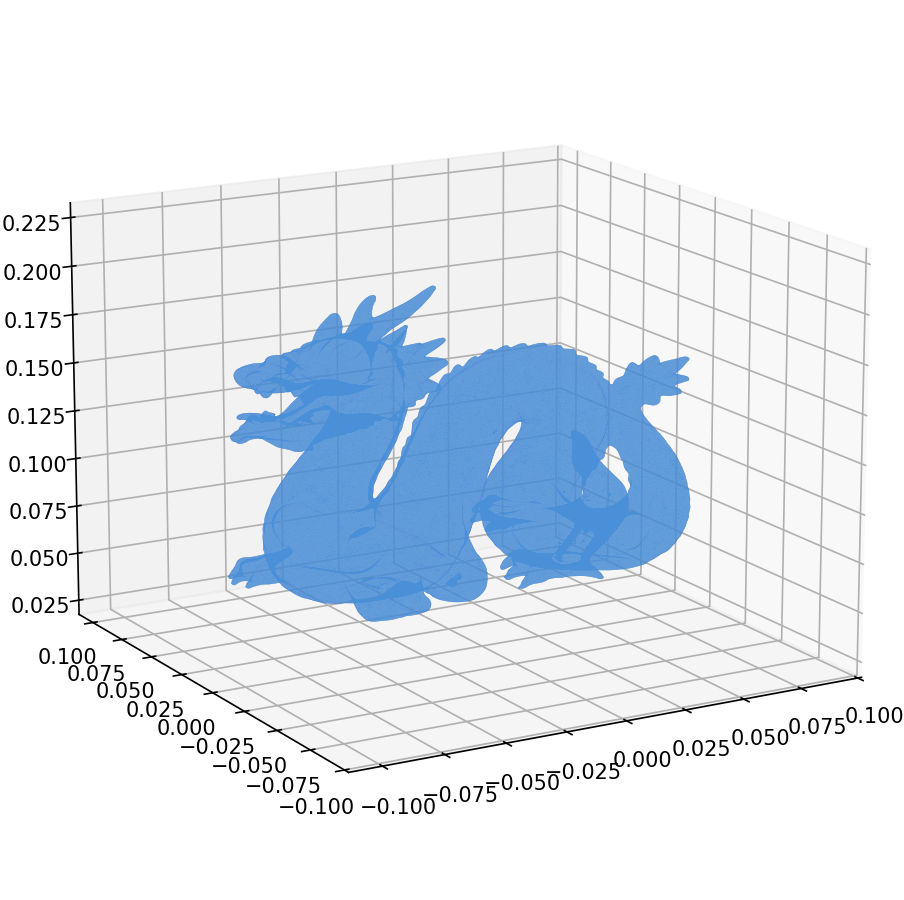
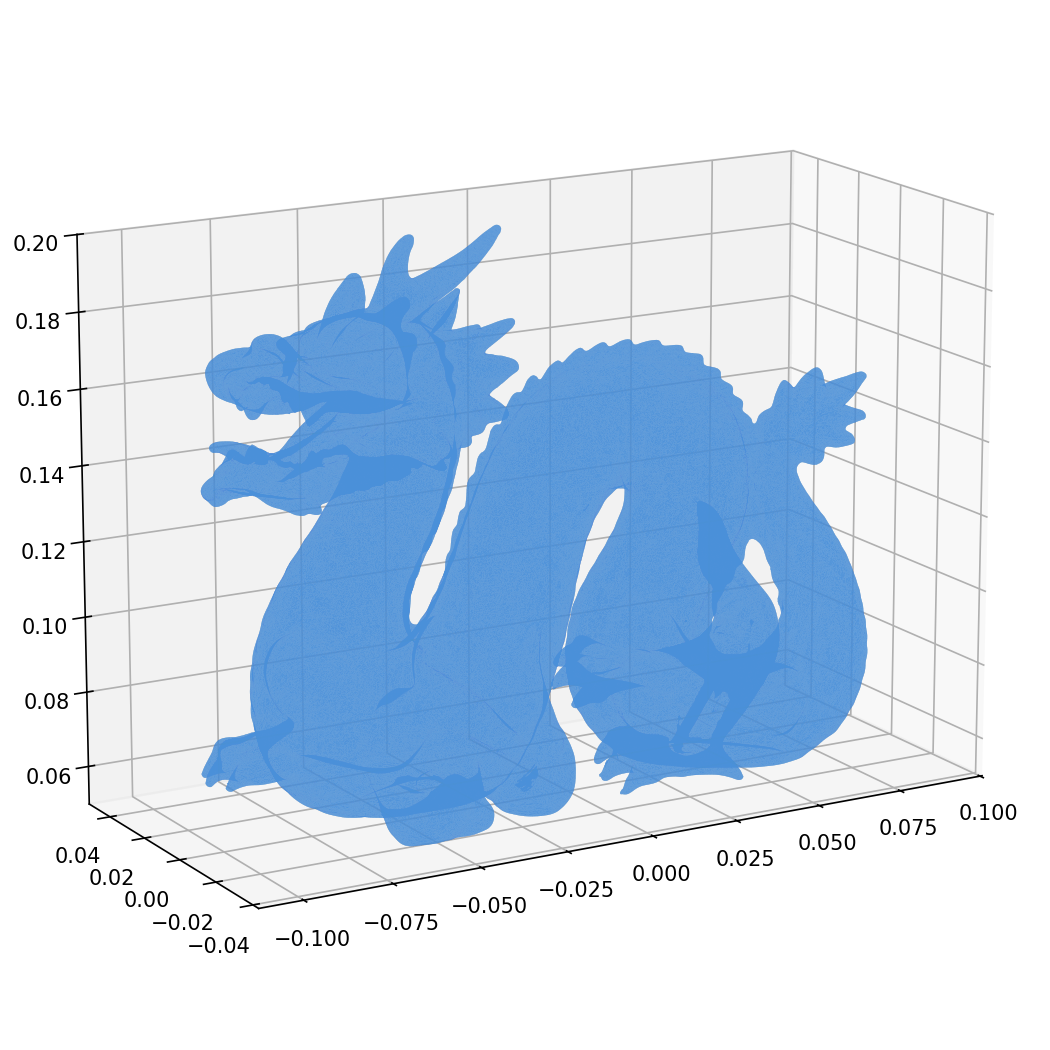
docs: crop whitespace from Dragon render, fill frame

diff --git a/benchmarks/benchmark_ascii_read.py b/benchmarks/benchmark_ascii_read.py
@@ -109,10 +109,11 @@ def render_dragon(output_path: pathlib.Path) -> None:
         import matplotlib as mpl
 
         mpl.use('Agg')
+        from PIL import Image, ImageChops
         from matplotlib import pyplot as plt
         from mpl_toolkits import mplot3d  # noqa: F401
     except ImportError:
-        print('matplotlib not installed, skipping render')
+        print('matplotlib/Pillow not installed, skipping render')
         return
 
     ply_path = download_dragon()
@@ -122,7 +123,7 @@ def render_dragon(output_path: pathlib.Path) -> None:
     # matplotlib uses Z-up)
     dragon.rotate([1, 0, 0], math.radians(-90))
 
-    figure = plt.figure(figsize=(8, 6))
+    figure = plt.figure(figsize=(10, 7))
     axes = figure.add_subplot(projection='3d')
     axes.add_collection3d(
         mplot3d.art3d.Poly3DCollection(
@@ -133,28 +134,58 @@ def render_dragon(output_path: pathlib.Path) -> None:
         )
     )
 
-    # Tight framing around the model
+    # Tight limits matching the actual model extents
     mins = dragon.min_
     maxs = dragon.max_
-    center = (mins + maxs) / 2
-    half_range = (maxs - mins).max() / 2 * 1.05
-    axes.set_xlim(center[0] - half_range, center[0] + half_range)
-    axes.set_ylim(center[1] - half_range, center[1] + half_range)
-    axes.set_zlim(center[2] - half_range, center[2] + half_range)
-
+    rng = maxs - mins
+    pad = 0.02
+    axes.set_xlim(
+        mins[0] - rng[0] * pad,
+        maxs[0] + rng[0] * pad,
+    )
+    axes.set_ylim(
+        mins[1] - rng[1] * pad,
+        maxs[1] + rng[1] * pad,
+    )
+    axes.set_zlim(
+        mins[2] - rng[2] * pad,
+        maxs[2] + rng[2] * pad,
+    )
+    axes.set_box_aspect(rng / rng.max())
     axes.view_init(elev=15, azim=-120)
 
     figure.subplots_adjust(top=1.0, bottom=0.0, left=0.0, right=1.0)
 
-    output_path.parent.mkdir(parents=True, exist_ok=True)
+    import tempfile
+
+    tmp = pathlib.Path(tempfile.mktemp(suffix='.png'))
     plt.savefig(
-        output_path,
+        tmp,
         dpi=150,
         bbox_inches='tight',
         facecolor='white',
         pad_inches=0.0,
     )
     plt.close()
+
+    # Auto-crop remaining whitespace
+    img = Image.open(tmp)
+    bg = Image.new(img.mode, img.size, (255, 255, 255))
+    diff = ImageChops.difference(img, bg)
+    bbox = diff.getbbox()
+    if bbox:
+        p = 6
+        bbox = (
+            max(0, bbox[0] - p),
+            max(0, bbox[1] - p),
+            min(img.width, bbox[2] + p),
+            min(img.height, bbox[3] + p),
+        )
+        img = img.crop(bbox)
+
+    output_path.parent.mkdir(parents=True, exist_ok=True)
+    img.save(output_path)
+    tmp.unlink(missing_ok=True)
     print(f'Render saved to {output_path}')
 
 
